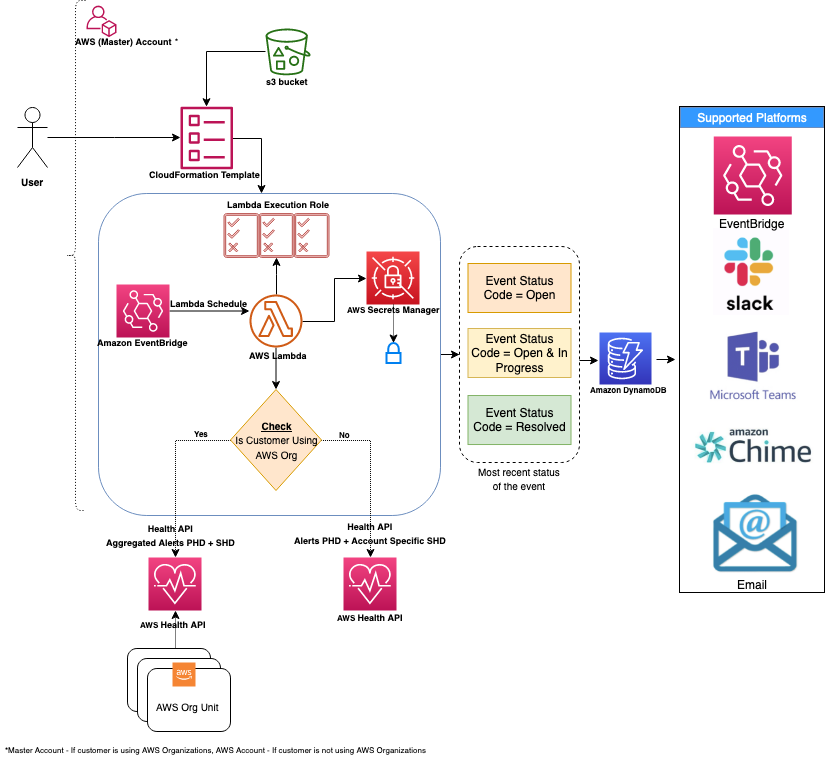
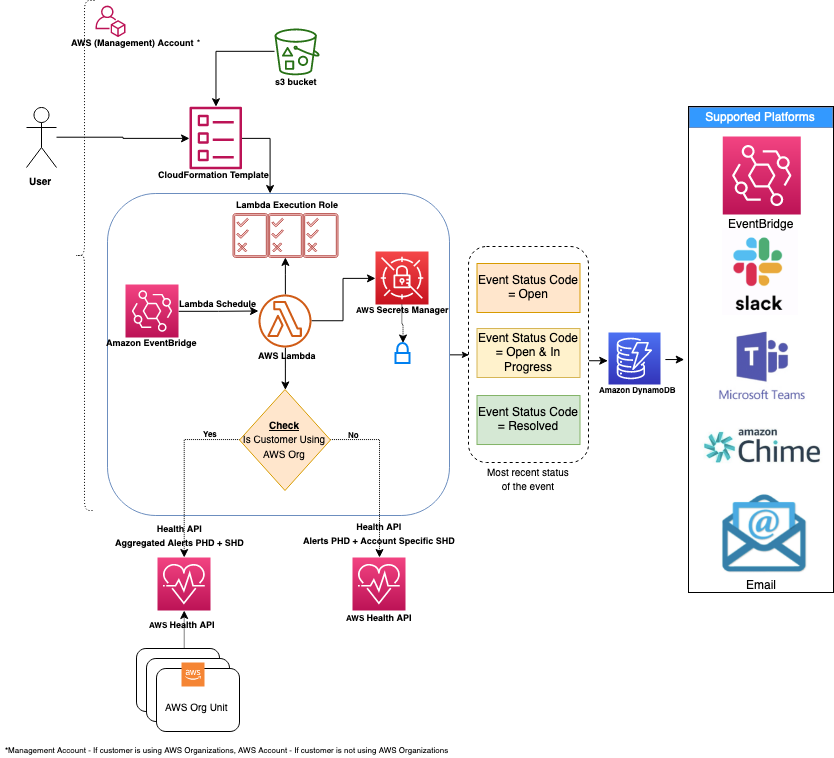
naming and readme change

diff --git a/README.md b/README.md
@@ -14,7 +14,8 @@
   * [Creating a Amazon EventBridge Ingestion ARN](#creating-a-amazon-eventbridge-ingestion-arn)
 - [Setup](#setup) 
   * [AHA for users WITHOUT AWS Organizations](#aha-without-aws-organizations)
-  * [AHA for users WITH AWS Organizations](#aha-with-aws-organizations)    
+  * [AHA for users WITH AWS Organizations (Management Account)](#aha-with-aws-organizations-using-management-account)
+  * [AHA for users WITH AWS Organizations (Member Account)](#aha-with-aws-organizations-using-member-account)
 - [Updating](#updating)
 - [New Features](#new-features)
 - [Troubleshooting](#troubleshooting)
@@ -23,7 +24,12 @@
 AWS Health Aware (AHA) is an automated notification tool for sending well-formatted AWS Health Alerts to Amazon Chime, Slack, Microsoft Teams, E-mail or an AWS Eventbridge compatible endpoint as long as you have Business or Enterprise Support.
 
 # Architecture
-![](https://github.com/aws-samples/aws-health-aware/blob/main/readme-images/architecture.png?raw=1)
+
+## Single Region
+![](https://github.com/aws-samples/aws-health-aware/blob/main/readme-images/aha-arch-single-region.png?raw=1)
+
+## Multi Region
+![](https://github.com/aws-samples/aws-health-aware/blob/main/readme-images/aha-arch-multi-region.png?raw=1)
 
 | Resource | Description                    |
 | ------------- | ------------------------------ |
@@ -108,13 +114,14 @@ AHA can send to multiple endpoints (webhook URLs, Email or EventBridge). To use 
 4.	Give your Event bus a name and **click** *Create*.
 5.  For the deployment we will need the *Name* of the Event bus **(not the ARN)**.
 
-# Setup - 
-There are 2 available ways to deploy AHA, both are done via the same CloudFormation template to make deployment as easy as possible.
+# Setup
+There are 3 available ways to deploy AHA, all are done via the same CloudFormation template to make deployment as easy as possible.
 
-The 2 deployment methods for AHA are:
+The 3 deployment methods for AHA are:
 
-1. [**AHA for users NOT using AWS Organizations**](#aha-without-aws-organizations): Users NOT using AWS Organizations will be able to get Service Health Dashboard (SHD) events ONLY.
-2. [**AHA for users who ARE using AWS Organizations**](#aha-with-aws-organizations): Users who ARE using AWS Organizations will be able to get Service Health Dashboard (SHD) events as well as aggregated Personal Health Dashboard (PHD) events for all accounts in their AWS Organization.
+1. [**AHA for users WITHOUT AWS Organizations**](#aha-without-aws-organizations): Users NOT using AWS Organizations.
+2. [**AHA for users WITH AWS Organizations (Management Account)**](#aha-with-aws-organizations-using-management-account): Users who ARE using AWS Organizations and deploying in the top-level management account.
+3. [**AHA for users WITH AWS Organizations (Member Account)**](#aha-with-aws-organizations-using-member-account): Users who ARE using AWS Organizations and deploying in a member account in the organization to assume a role in the top-level management account.
 
 ## AHA Without AWS Organizations
 
@@ -127,6 +134,7 @@ The 2 deployment methods for AHA are:
 -Launch the stack.
 -In CloudFormation Console create a stack with new resources from the following S3 URL: https://s3.amazonaws.com/cloudformation-stackset-sample-templates-us-east-1/AWSCloudFormationStackSetExecutionRole.yml) - In *AdministratorAccountId* type in the 12 digit account number you're running the solution in (e.g. 000123456789)
 -Launch the stack.
+
 ### Deployment
 
 1. Clone the AHA package that from this repository. If you're not familiar with the process, [here](https://git-scm.com/docs/git-clone) is some documentation. The URL to clone is in the upper right-hand corner labeled `Clone uri`
@@ -134,7 +142,7 @@ The 2 deployment methods for AHA are:
 3. Upload the .zip you created in Step 1 to an S3 in the same region you plan to deploy this in.   
 4. In your AWS console go to *CloudFormation*.   
 5. In the *CloudFormation* console **click** *Create stack > With new resources (standard)*.   
-6. Under *Template Source* **click** *Upload a template file* and **click** *Choose file*  and select `02_CFN_MR_DEPLOY_AHA.yml` **Click** *Next*.   
+6. Under *Template Source* **click** *Upload a template file* and **click** *Choose file*  and select `CFN_DEPLOY_AHA.yml` **Click** *Next*.   
 7. -In *Stack name* type a stack name (i.e. AHA-Deployment).   
 -In *AWSOrganizationsEnabled* leave it set to default which is `No`. If you do have AWS Organizations enabled and you want to aggregate across all your accounts, you should be following the step for [AHA for users who ARE using AWS Organizations](#aha-with-aws-organizations)  
 -In *AWSHealthEventType* select whether you want to receive *all* event types or *only* issues.   
@@ -147,11 +155,11 @@ The 2 deployment methods for AHA are:
 -In *ARN of the AWS Organizations Management Account assume role* leave it set to default None as this is only for customers using AWS Organizations.
 -In *Deploy in secondary region?* select another region to deploy AHA in. Otherwise leave to default No.
 8. Scroll to the bottom and **click** *Next*. 
-9. Scroll to the bottom and **click** *Next* again.   
+9. Scroll to the bottom and **click** *Next* again.
 10. Scroll to the bottom and **click** the *checkbox* and **click** *Create stack*.   
 11. Wait until *Status* changes to *CREATE_COMPLETE* (roughly 2-4 minutes or if deploying in a secondary region, it can take up to 30 minutes).   
 
-## AHA With AWS Organizations
+## AHA With AWS Organizations Using Management Account
 
 ### Prerequisites
 
@@ -163,6 +171,7 @@ The 2 deployment methods for AHA are:
 -Launch the stack.
 -In CloudFormation Console create a stack with new resources from the following S3 URL: https://s3.amazonaws.com/cloudformation-stackset-sample-templates-us-east-1/AWSCloudFormationStackSetExecutionRole.yml) - In *AdministratorAccountId* type in the 12 digit account number you're running the solution in (e.g. 000123456789)
 -Launch the stack.
+
 ### Deployment
 
 1. Clone the AHA package that from this repository. If you're not familiar with the process, [here](https://git-scm.com/docs/git-clone) is some documentation. The URL to clone is in the upper right-hand corner labeled `Clone uri`
@@ -170,7 +179,7 @@ The 2 deployment methods for AHA are:
 3. Upload the .zip you created in Step 1 to an S3 in the same region you plan to deploy this in.   
 4. In your AWS console go to *CloudFormation*.   
 5. In the *CloudFormation* console **click** *Create stack > With new resources (standard)*.   
-6. Under *Template Source* **click** *Upload a template file* and **click** *Choose file*  and select `02_CFN_MR_DEPLOY_AHA.yml` **Click** *Next*.   
+6. Under *Template Source* **click** *Upload a template file* and **click** *Choose file*  and select `CFN_DEPLOY_AHA.yml` **Click** *Next*.   
 7. -In *Stack name* type a stack name (i.e. AHA-Deployment).
 -In *AWSOrganizationsEnabled* change the dropdown to `Yes`. If you do NOT have AWS Organizations enabled you should be following the steps for [AHA for users who are NOT using AWS Organizations](#aha-without-aws-organizations)  
 -In *AWSHealthEventType* select whether you want to receive *all* event types or *only* issues.   
@@ -180,19 +189,32 @@ The 2 deployment methods for AHA are:
 -In the *Email Setup* section enter the From and To Email addresses as well as the Email subject. If you aren't configuring email, just leave it as is.
 -In *EventSearchBack* enter in the amount of hours you want to search back for events. Default is 1 hour.  
 -In *Regions* enter in the regions you want to search for events in. Default is all regions. You can filter for up to 10, comma separated with (e.g. us-east-1, us-east-2).
--In *ARN of the AWS Organizations Management Account assume role* leave it set to default None, unless you are using a member account instead of the management account. Instructions for this configuration are in the next section.
+-In *ARN of the AWS Organizations Management Account assume role* leave it set to default None.
 -In *Deploy in secondary region?* select another region to deploy AHA in. Otherwise leave to default No.
 8. Scroll to the bottom and **click** *Next*. 
 9. Scroll to the bottom and **click** *Next* again.   
 10. Scroll to the bottom and **click** the *checkbox* and **click** *Create stack*.   
 11. Wait until *Status* changes to *CREATE_COMPLETE* (roughly 2-4 minutes or if deploying in a secondary region, it can take up to 30 minutes). 
 
-### Deployment in AWS Organization Member Account
+## AHA With AWS Organizations Using Member Account
 
-1. Clone the AHA package from the BETA-member-deployment folder. If you're not familiar with the process, [here](https://git-scm.com/docs/git-clone) is some documentation. The URL to clone is in the upper right-hand corner labeled `Clone uri`
+### Prerequisites
+
+1. [Enable Health Organizational View](https://docs.aws.amazon.com/health/latest/ug/enable-organizational-view-in-health-console.html) from the console, so that you can aggregate all Personal Health Dashboard (PHD) events for all accounts in your AWS Organization. 
+2. Have at least 1 [endpoint](#configuring-an-endpoint) configured (you can have multiple)
+3. Have access to deploy Cloudformation Templates with the following resources: AWS IAM policies, Amazon DynamoDB Tables, AWS Lambda, Amazon EventBridge and AWS Secrets Manager in the **AWS Organizations Master Account**.
+4. -If using Multi-Region, you must deploy the following 2 CloudFormation templates to allow the Stackset deployment to deploy resources **even if you have full administrator privileges, you still need to follow these steps**.
+-In CloudFormation Console create a stack with new resources from the following S3 URL: https://s3.amazonaws.com/cloudformation-stackset-sample-templates-us-east-1/AWSCloudFormationStackSetAdministrationRole.yml - this will allows CFT Stacksets to launch AHA in another region
+-Launch the stack.
+-In CloudFormation Console create a stack with new resources from the following S3 URL: https://s3.amazonaws.com/cloudformation-stackset-sample-templates-us-east-1/AWSCloudFormationStackSetExecutionRole.yml) - In *AdministratorAccountId* type in the 12 digit account number you're running the solution in (e.g. 000123456789)
+-Launch the stack.
+
+### Deployment
+
+1. Clone the AHA package that from this repository. If you're not familiar with the process, [here](https://git-scm.com/docs/git-clone) is some documentation. The URL to clone is in the upper right-hand corner labeled `Clone uri`
 2. In your top-level management account AWS console go to *CloudFormation*
 3. In the *CloudFormation* console **click** *Create stack > With new resources (standard)*.
-4. Under *Template Source* **click** *Upload a template file* and **click** *Choose file*  and select `01_CFN_MGMT_ROLE.yml` **Click** *Next*.
+4. Under *Template Source* **click** *Upload a template file* and **click** *Choose file*  and select `CFN_MGMT_ROLE.yml` **Click** *Next*.
 5. -In *Stack name* type a stack name (i.e. aha-assume-role).
 -In *OrgMemberAccountId* put in the account id of the member account you plan to run AHA in (e.g. 000123456789).
 6. Scroll to the bottom and **click** *Next*.
@@ -204,7 +226,7 @@ The 2 deployment methods for AHA are:
 12. Upload the .zip you created in Step 11 to an S3 in the same region you plan to deploy this in.
 13. Login to the member account you plan to deploy this in and in your AWS console go to *CloudFormation*.
 14. In the *CloudFormation* console **click** *Create stack > With new resources (standard)*.
-15. Under *Template Source* **click** *Upload a template file* and **click** *Choose file*  and select `02_CFN_MR_DEPLOY_AHA.yml` **Click** *Next*.
+15. Under *Template Source* **click** *Upload a template file* and **click** *Choose file*  and select `CFN_DEPLOY_AHA.yml` **Click** *Next*.
 16. -In *Stack name* type a stack name (i.e. AHA-Deployment).
 -In *AWSOrganizationsEnabled* change the dropdown to `Yes`. If you do NOT have AWS Organizations enabled you should be following the steps for [AHA for users who are NOT using AWS Organizations](#aha-without-aws-organizations)
 -In *AWSHealthEventType* select whether you want to receive *all* event types or *only* issues.
@@ -219,18 +241,28 @@ The 2 deployment methods for AHA are:
 17. Scroll to the bottom and **click** *Next*.
 18. Scroll to the bottom and **click** *Next* again.
 19. Scroll to the bottom and **click** the *checkbox* and **click** *Create stack*.
-12. Wait until *Status* changes to *CREATE_COMPLETE* (roughly 2-4 minutes or if deploying in a secondary region, it can take up to 30 minutes).
+20. Wait until *Status* changes to *CREATE_COMPLETE* (roughly 2-4 minutes or if deploying in a secondary region, it can take up to 30 minutes).
 
 # Updating
 **Until this project is migrated to the AWS Serverless Application Model (SAM), updates will have to be done as described below:**
 1. Download the updated CloudFormation Template .yml file and 2 `.py` files.   
 2. Zip up the 2 `.py` files and name the .zip with a different version number than before (e.g. if the .zip you originally uploaded is aha-v1.8.zip the new one should be aha-v1.9.zip)   
 3. In the AWS CloudFormation console **click** on the name of your stack, then **click** *Update*.   
-4. In the *Prepare template* section **click** *Replace current template*, **click** *Upload a template file*, **click** *Choose file*, select the newer `02_CFN_MR_DEPLOY_AHA.yml` file you downloaded and finally **click** *Next*.   
+4. In the *Prepare template* section **click** *Replace current template*, **click** *Upload a template file*, **click** *Choose file*, select the newer `CFN_DEPLOY_AHA.yml` file you downloaded and finally **click** *Next*.   
 5. In the *S3Key* text box change the version number in the name of the .zip to match name of the .zip you uploaded in Step 2 (The name of the .zip has to be different for CloudFormation to recognize a change). **Click** *Next*.   
 6. At the next screen **click** *Next* and finally **click** *Update stack*. This will now upgrade your environment to the latest version you downloaded.
 
 **If for some reason, you still have issues after updating, you can easily just delete the stack and redeploy. The infrastructure can be destroyed and rebuilt within minutes through CloudFormation.**
+
+# New Features
+We are happy to announce the launch of new enhancements to AHA. Please try them out and keep sendings us your feedback!
+1. Multi-region deployment option
+2. Updated file names for improved clarity
+2. Ability to filter accounts (Refer to AccountIDs CFN parameter for more info on how to exclude accounts from AHA notifications)
+3. Ability to view Account Names for a given Account ID in the PHD alerts
+4. If you are running AHA with the Non-Org mode, AHA will send the Account #' and resource(s) impacts if applicable for a given alert
+5. Ability to deploy AHA with the Org mode on a member account
+6. Support for a new Health Event Type - "Investigation"
 
 # Troubleshooting
 * If for whatever reason you need to update the Webhook URL; just update the CloudFormation Template with the new Webhook URL.
